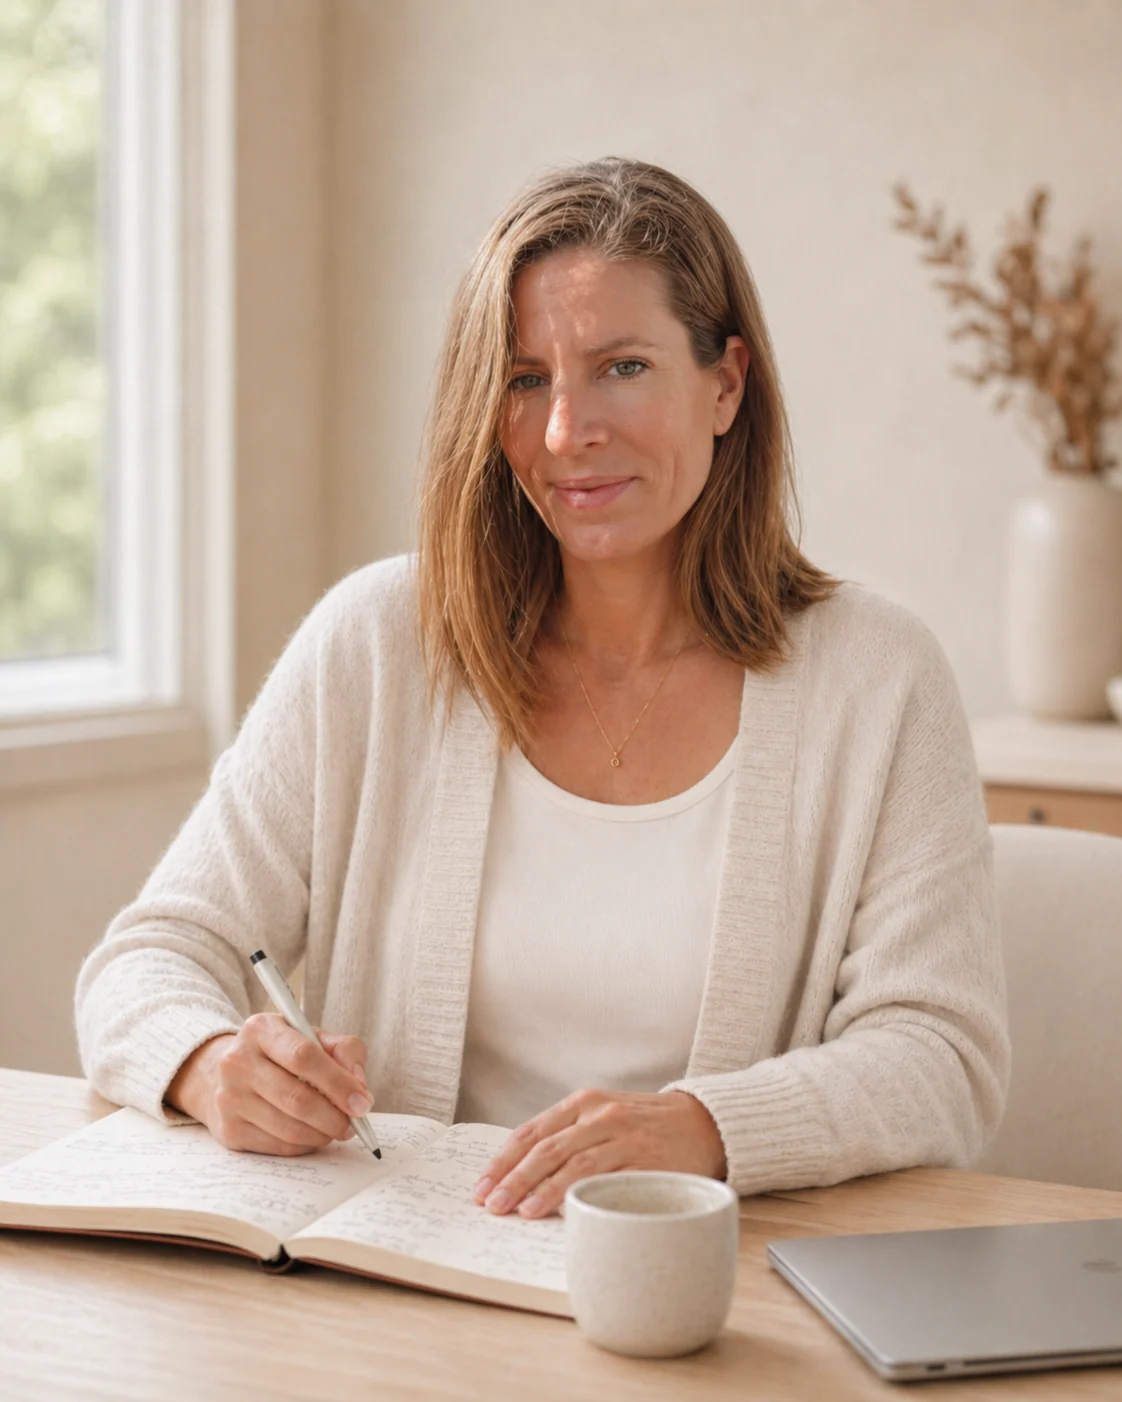
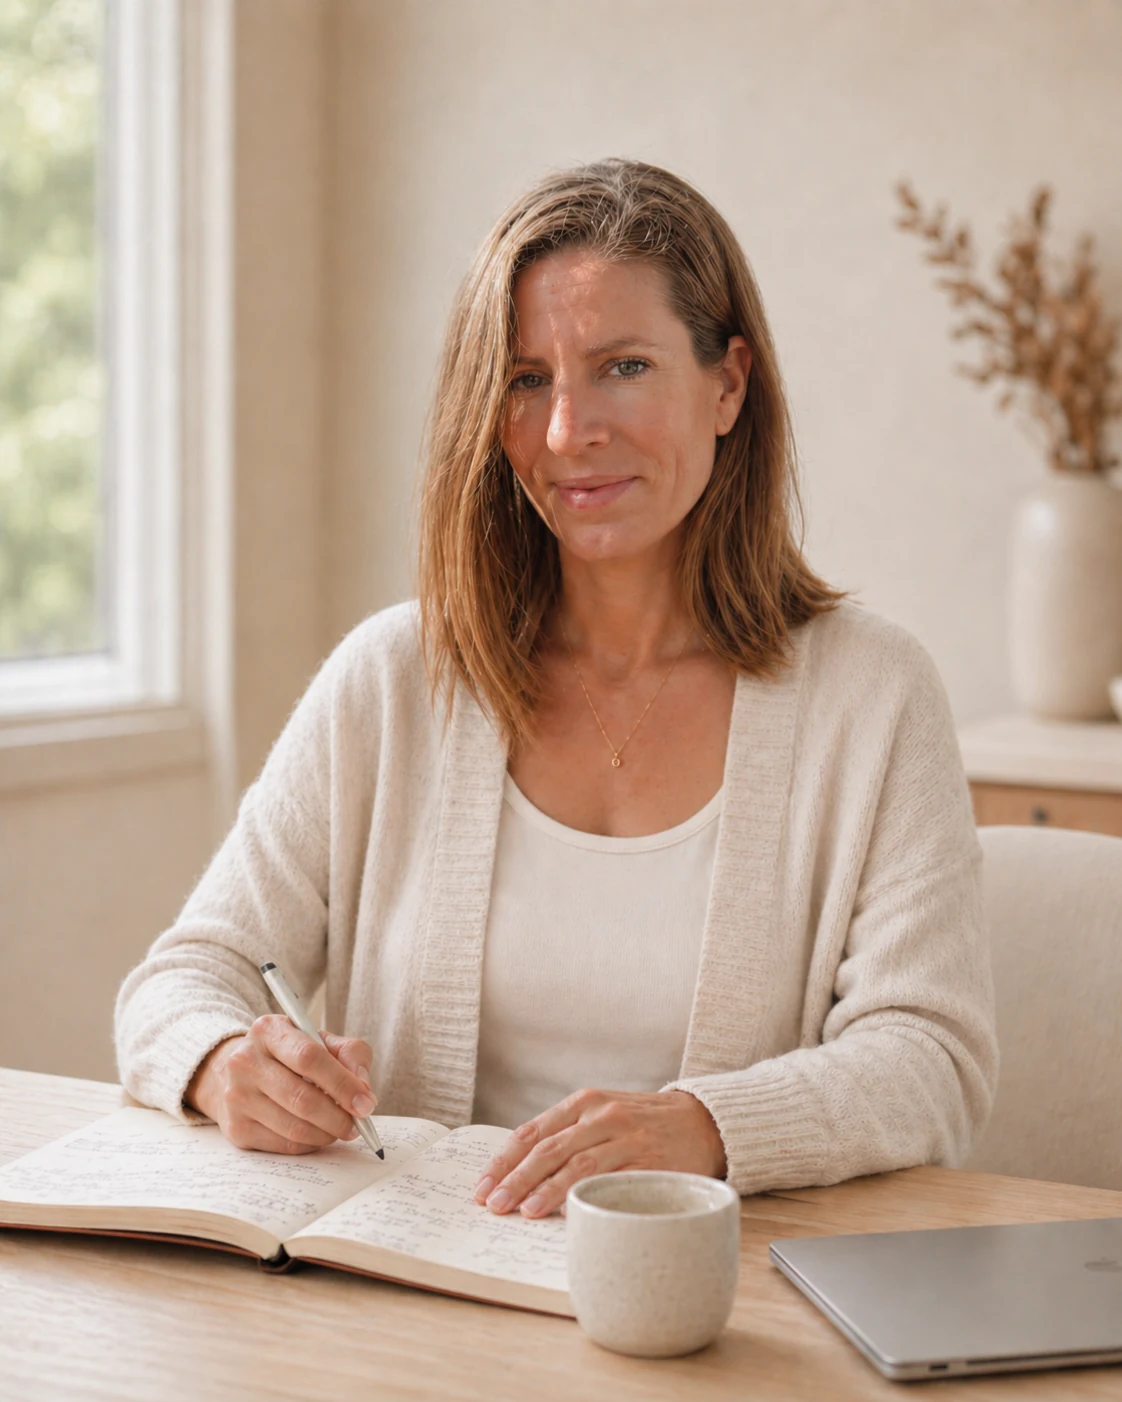
Replace about image with portrait

diff --git a/index.html b/index.html
@@ -719,7 +719,7 @@
         <div class="about-image">
           <img
             src="./assets/images/monica-sobre-mi.webp"
-            alt="Mónica Luque revisando notas de nutrición y salud femenina"
+            alt="Mónica Luque escribiendo en una libreta en un espacio luminoso y sereno"
             loading="lazy"
           />
         </div>
